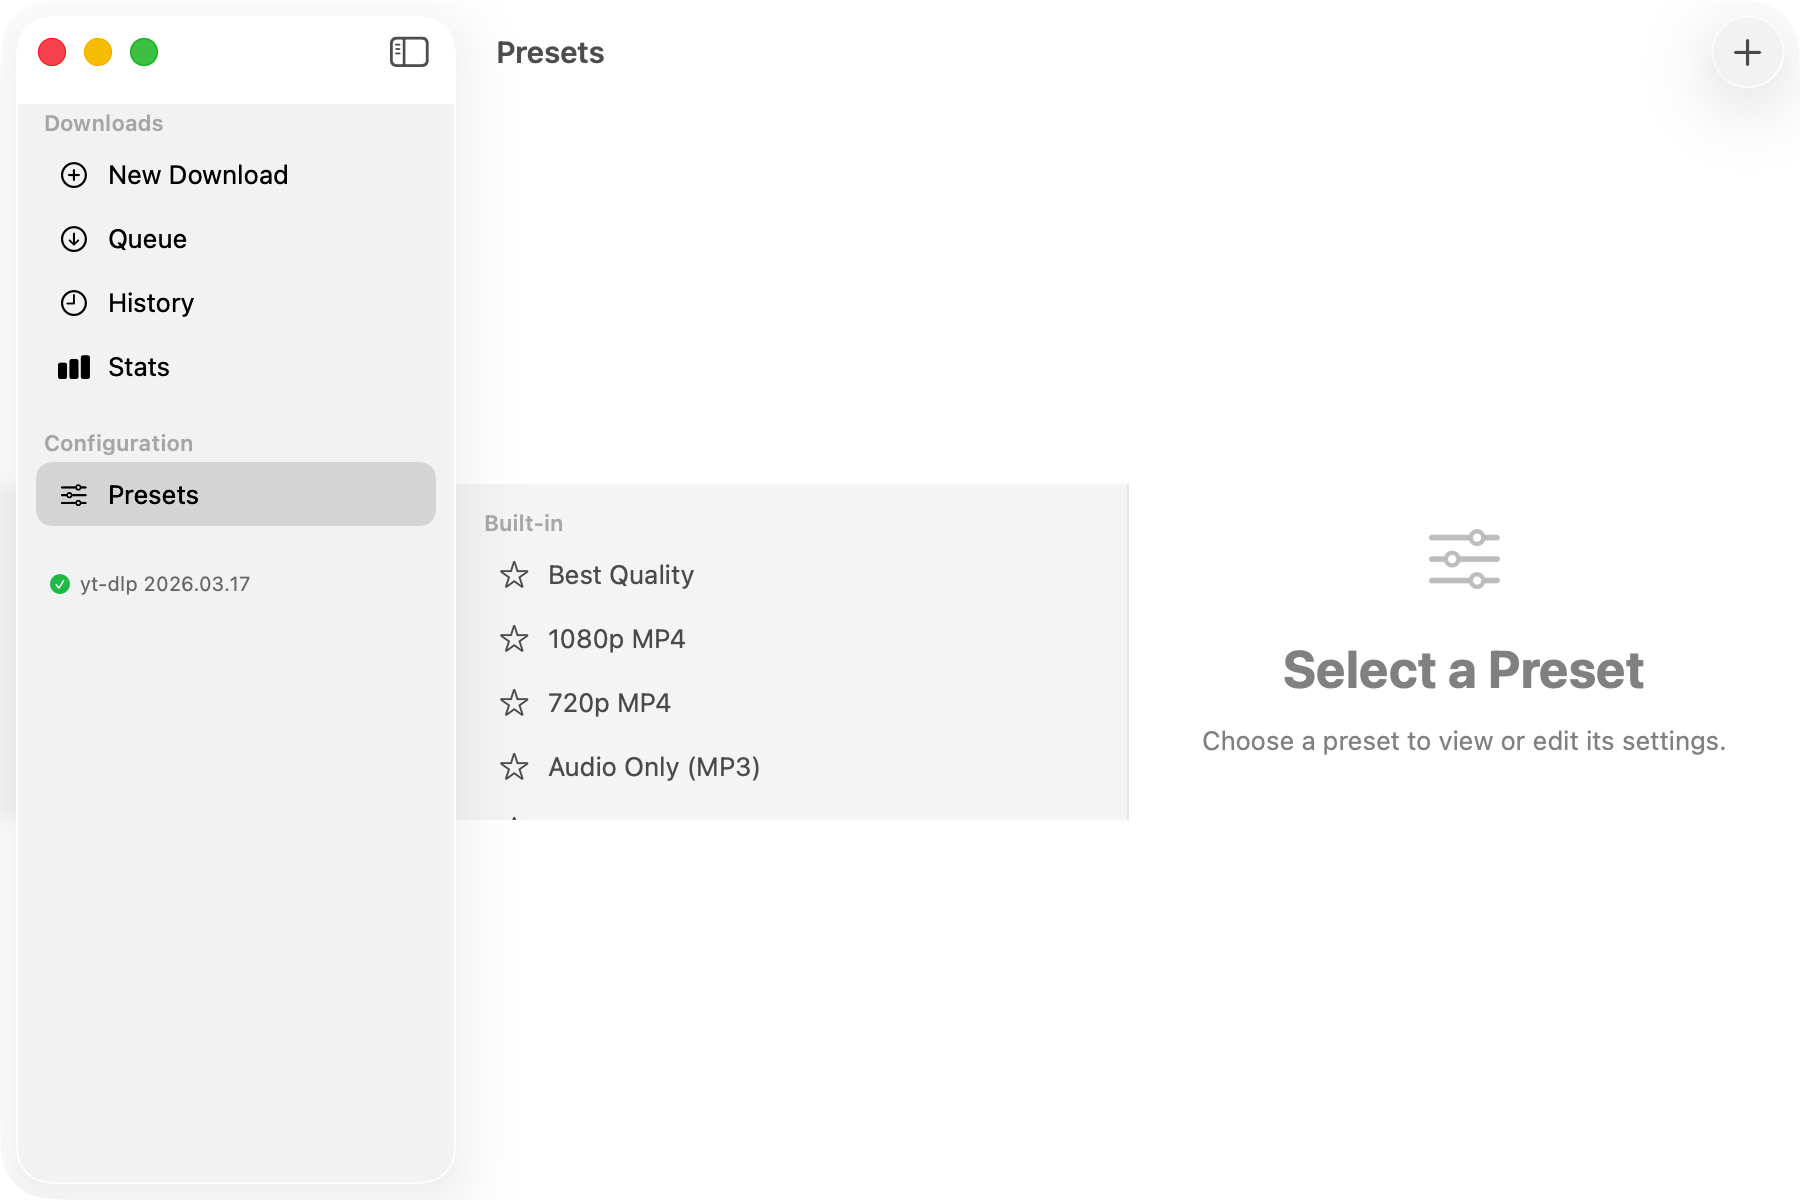
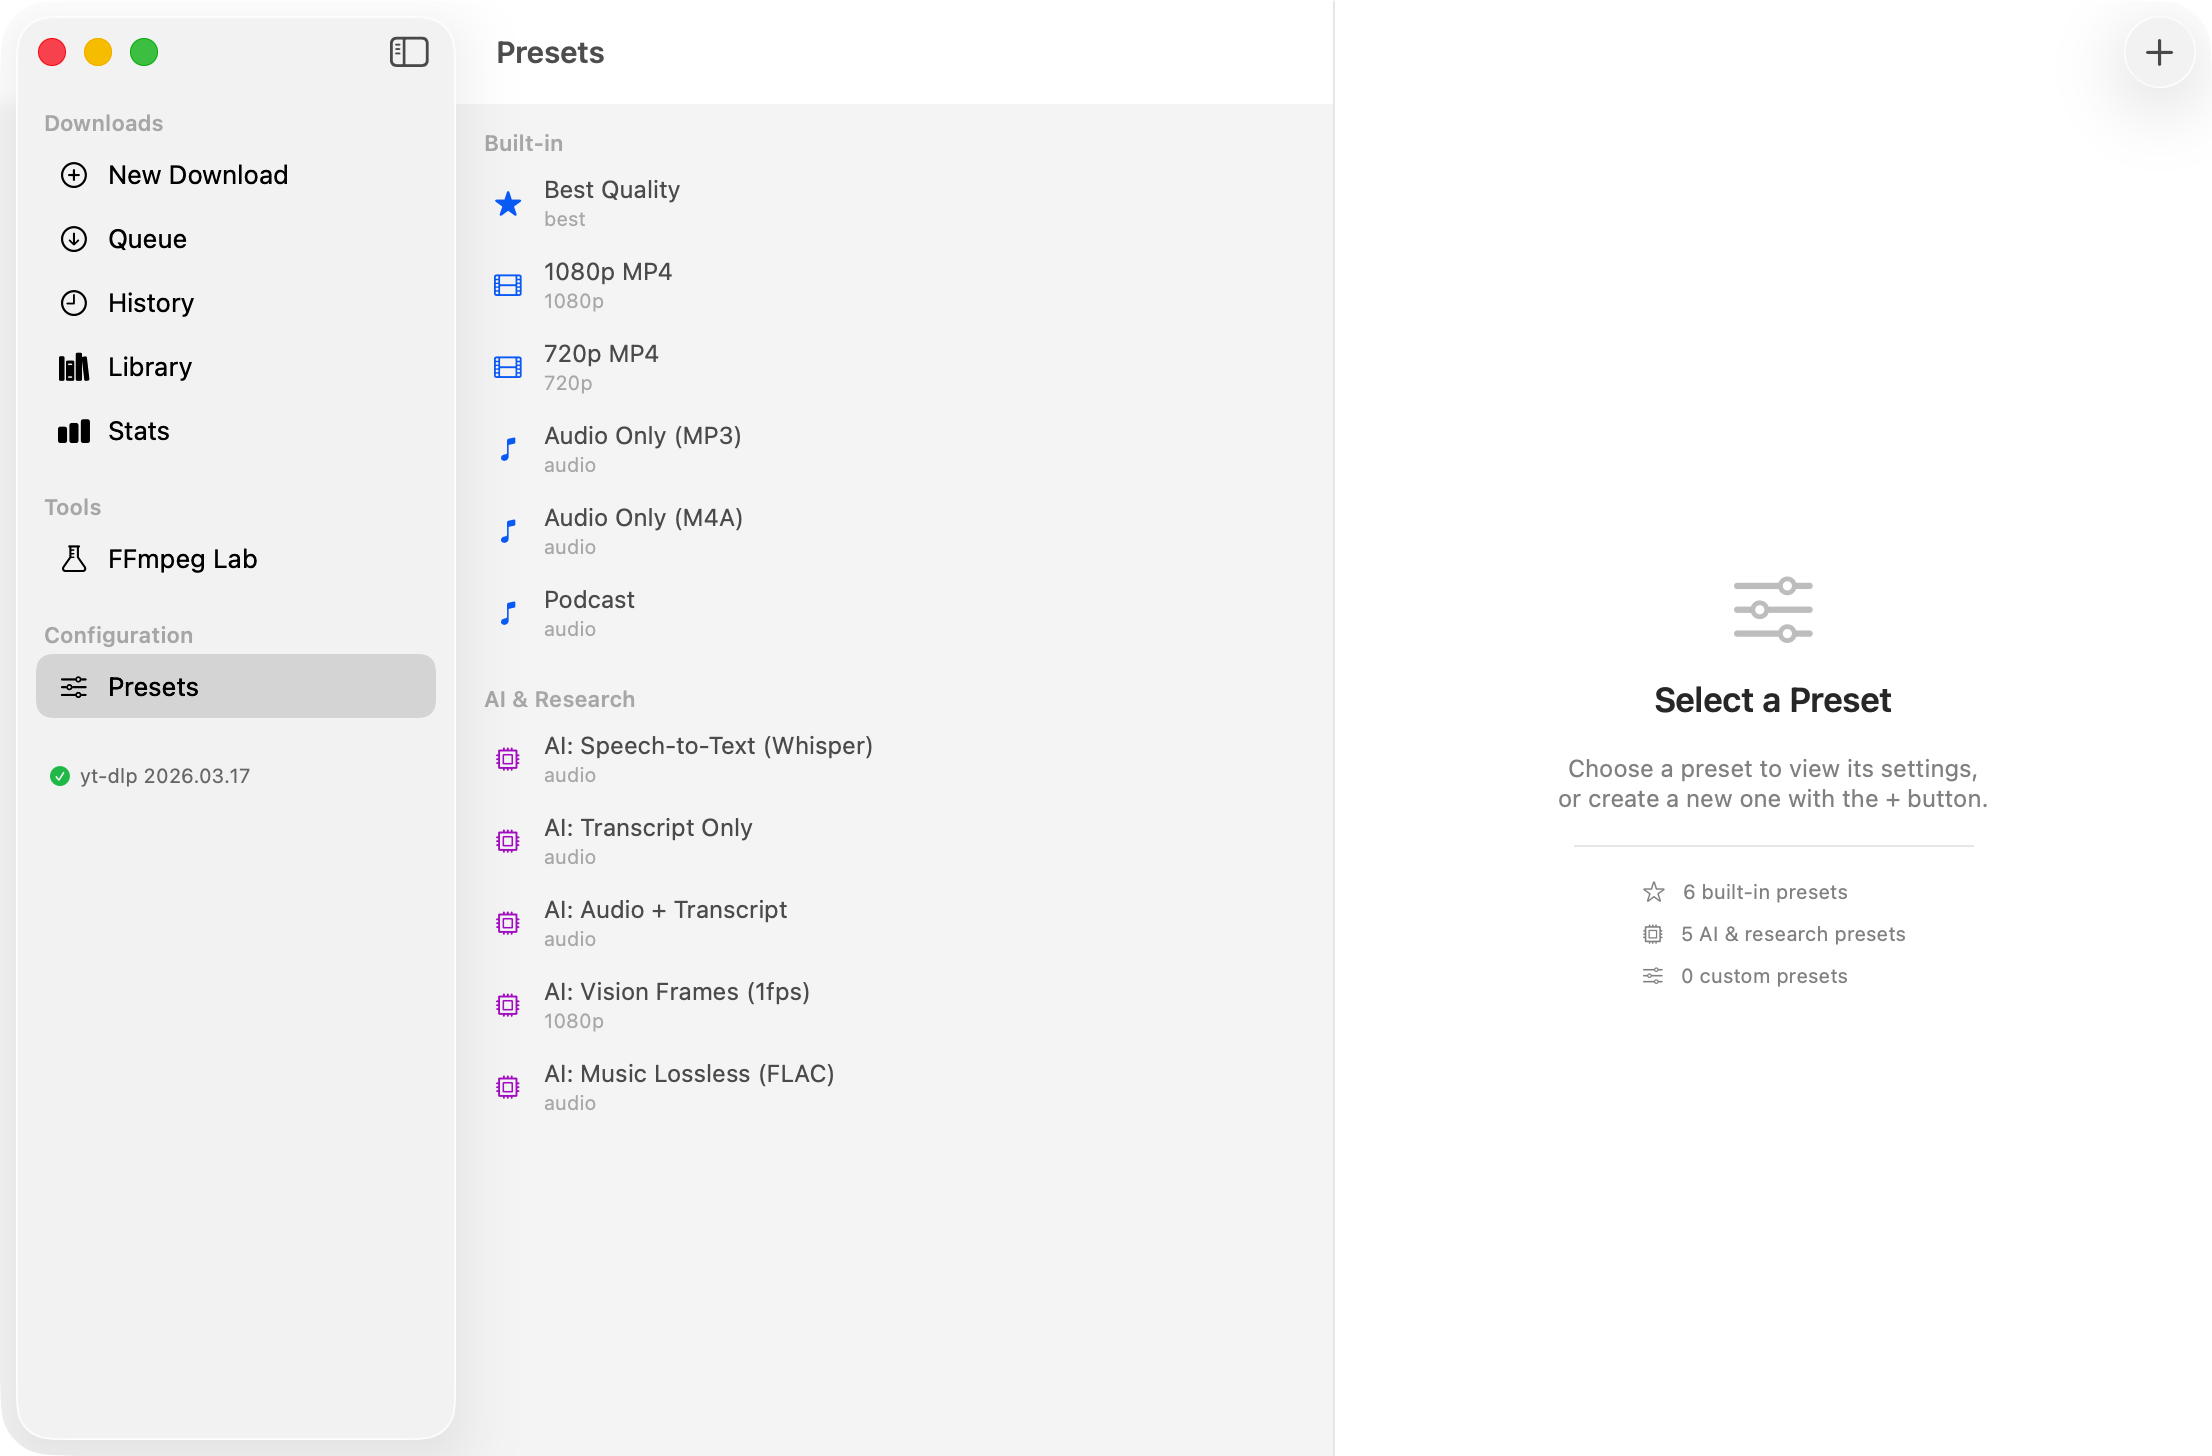
docs: update README screenshots — FFmpeg Lab, Playlist, redesigned Presets
Replace screenshot grid with most impactful views:
- Media Info + Transcripts (158 languages)
- FFmpeg Lab (8 operation panels)
- Playlist Picker (245 items, 5 download modes)
- Library, Stats, Presets (redesigned with 11 presets)

Retaken presets screenshot showing typed icons and AI section.

diff --git a/README.md b/README.md
@@ -12,13 +12,13 @@ Fetch wraps yt-dlp with a polished native interface — paste a URL, pick a form
 
 ## Screenshots
 
-| New Download | Media Info + AI Suggestions | Stats Dashboard |
+| Media Info + Transcripts | FFmpeg Lab | Playlist Picker |
 |:---:|:---:|:---:|
-| ![New Download](screenshots/new-download-view.png) | ![Media Info](screenshots/media-info-view.png) | ![Stats](screenshots/stats-view.png) |
+| ![Media Info](screenshots/media-info-view.png) | ![FFmpeg Lab](screenshots/ffmpeg-lab-view.png) | ![Playlist](screenshots/playlist-picker-view.png) |
 
-| Download Queue | History | Presets | Settings |
-|:---:|:---:|:---:|:---:|
-| ![Queue](screenshots/queue-view.png) | ![History](screenshots/history-view.png) | ![Presets](screenshots/presets-view.png) | ![Settings](screenshots/settings-view.png) |
+| Library | Stats | Presets (11 built-in) |
+|:---:|:---:|:---:|
+| ![Library](screenshots/library-view.png) | ![Stats](screenshots/stats-view.png) | ![Presets](screenshots/presets-view.png) |
 
 ## Features
 
